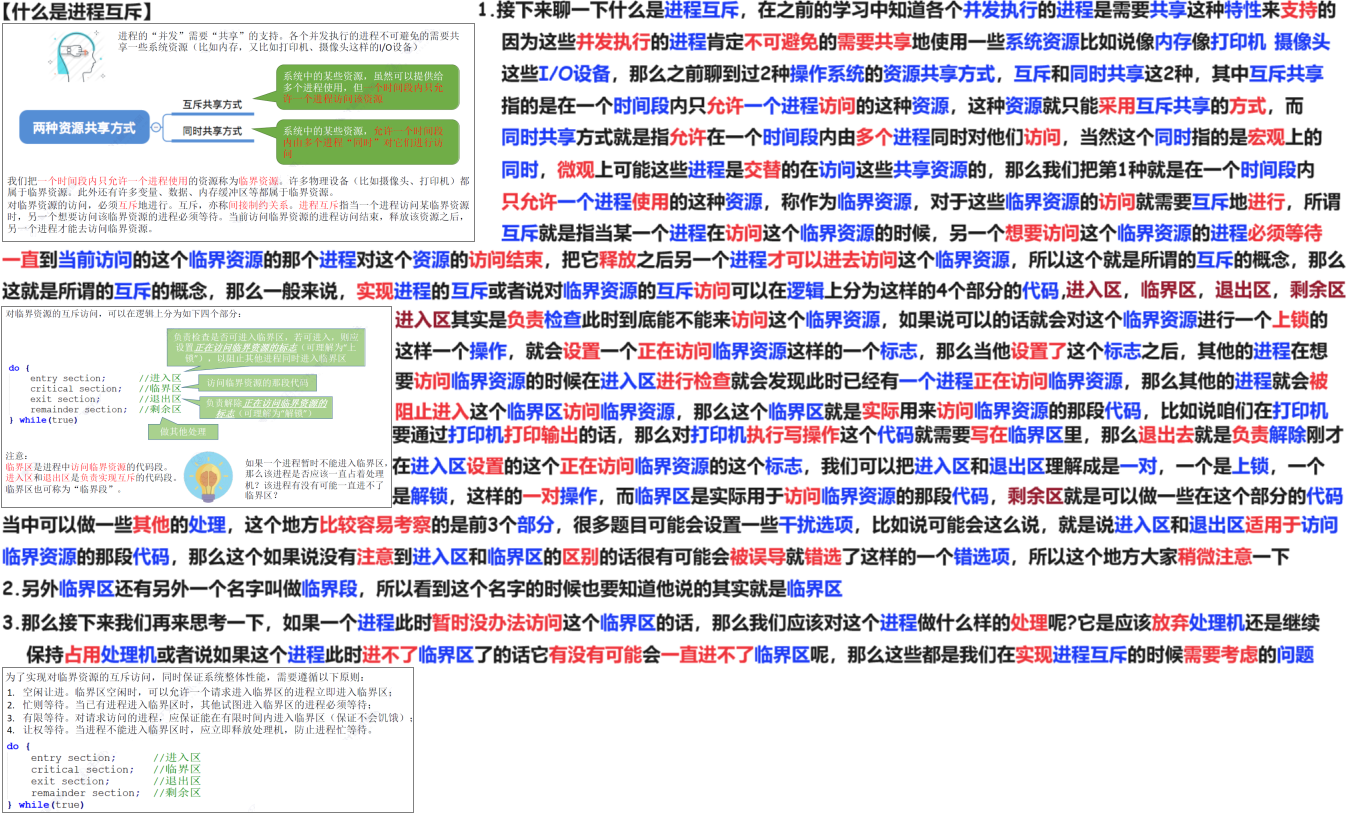
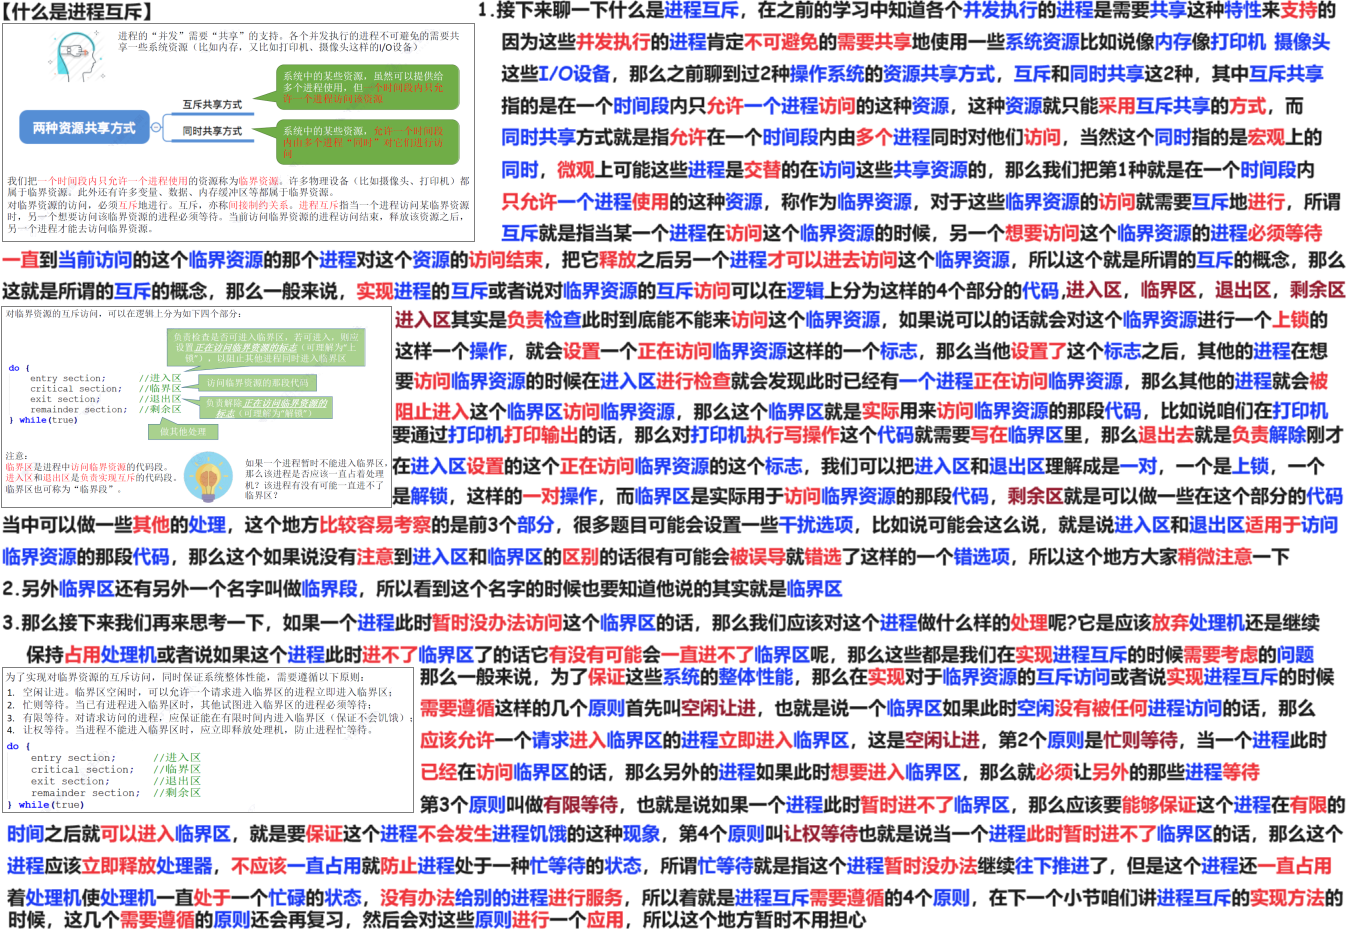
240428

diff --git a/01 初试/01 OS/02 24 25 王道基础/02 进程 线程/03 同步 互斥/01 进程 同步 互斥 基本概念 240428/02 Doc.md b/01 初试/01 OS/02 24 25 王道基础/02 进程 线程/03 同步 互斥/01 进程 同步 互斥 基本概念 240428/02 Doc.md
@@ -16,4 +16,10 @@
 
 # 03 什么是进程互斥
 
-<img src="https://cvp.oss-cn-shanghai.aliyuncs.com/picgo/202404281014758.png" alt="image-20240428101409594" style="zoom:50%;" />
+<img src="https://cvp.oss-cn-shanghai.aliyuncs.com/picgo/202404281115646.png" alt="image-20240428111543048" style="zoom:50%;" />
+
+
+
+# 04 知识回顾与重要考点
+
+<img src="https://cvp.oss-cn-shanghai.aliyuncs.com/picgo/202404281131976.png" alt="image-20240428113101738" style="zoom:50%;" />
